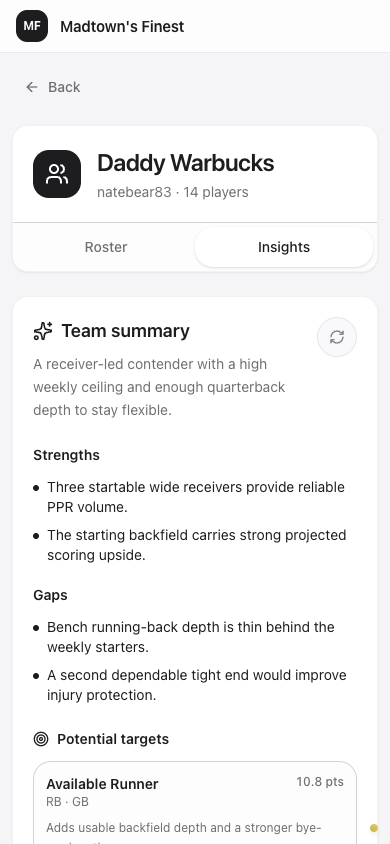
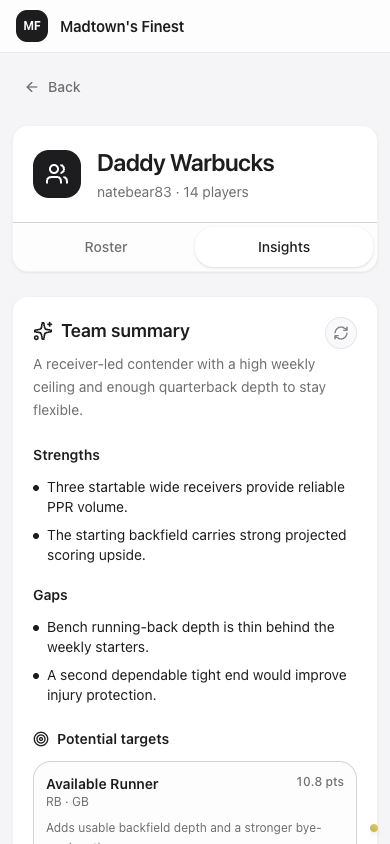
Give team summary text full width

Changed region(s): [[0.0923, 0.4313, 0.8308, 0.4929], [0.8615, 0.3697, 0.8923, 0.4005]]

diff --git a/src/components/TeamSummary.jsx b/src/components/TeamSummary.jsx
@@ -85,23 +85,21 @@ export default function TeamSummary({ rosterId }) {
   return (
     <Card className="overflow-hidden">
       <CardContent className="space-y-6 p-5 sm:p-6">
-        <div className="flex items-start justify-between gap-3">
-          <div className="min-w-0 flex-1">
-            <div className="flex items-center gap-2">
-              <Sparkles className="h-5 w-5 text-primary" aria-hidden="true" />
-              <h2 className="text-lg font-semibold">Team summary</h2>
-            </div>
-            <p className="mt-2 text-sm leading-relaxed text-muted-foreground">
-              {summary.identity}
-            </p>
+        <div className="relative">
+          <div className="flex items-center gap-2 pr-10">
+            <Sparkles className="h-5 w-5 text-primary" aria-hidden="true" />
+            <h2 className="text-lg font-semibold">Team summary</h2>
           </div>
+          <p className="mt-2 text-sm leading-relaxed text-muted-foreground">
+            {summary.identity}
+          </p>
           <button
             type="button"
             onClick={() => regenerate()}
             disabled={isRegenerating || cooldownSeconds > 0}
             aria-label={isRegenerating ? 'Regenerating team summary' : cooldownLabel(cooldownSeconds)}
             title={isRegenerating ? 'Regenerating team summary' : cooldownLabel(cooldownSeconds)}
-            className="inline-flex h-10 w-10 shrink-0 items-center justify-center rounded-full border bg-background transition-colors hover:bg-accent disabled:cursor-not-allowed disabled:opacity-55 focus-visible:outline-none focus-visible:ring-2 focus-visible:ring-ring"
+            className="absolute right-0 top-0 inline-flex h-8 w-8 items-center justify-center rounded-full border bg-background transition-colors hover:bg-accent disabled:cursor-not-allowed disabled:opacity-55 focus-visible:outline-none focus-visible:ring-2 focus-visible:ring-ring"
           >
             <RefreshCw className={`h-4 w-4 ${isRegenerating ? 'animate-spin' : ''}`} aria-hidden="true" />
           </button>
